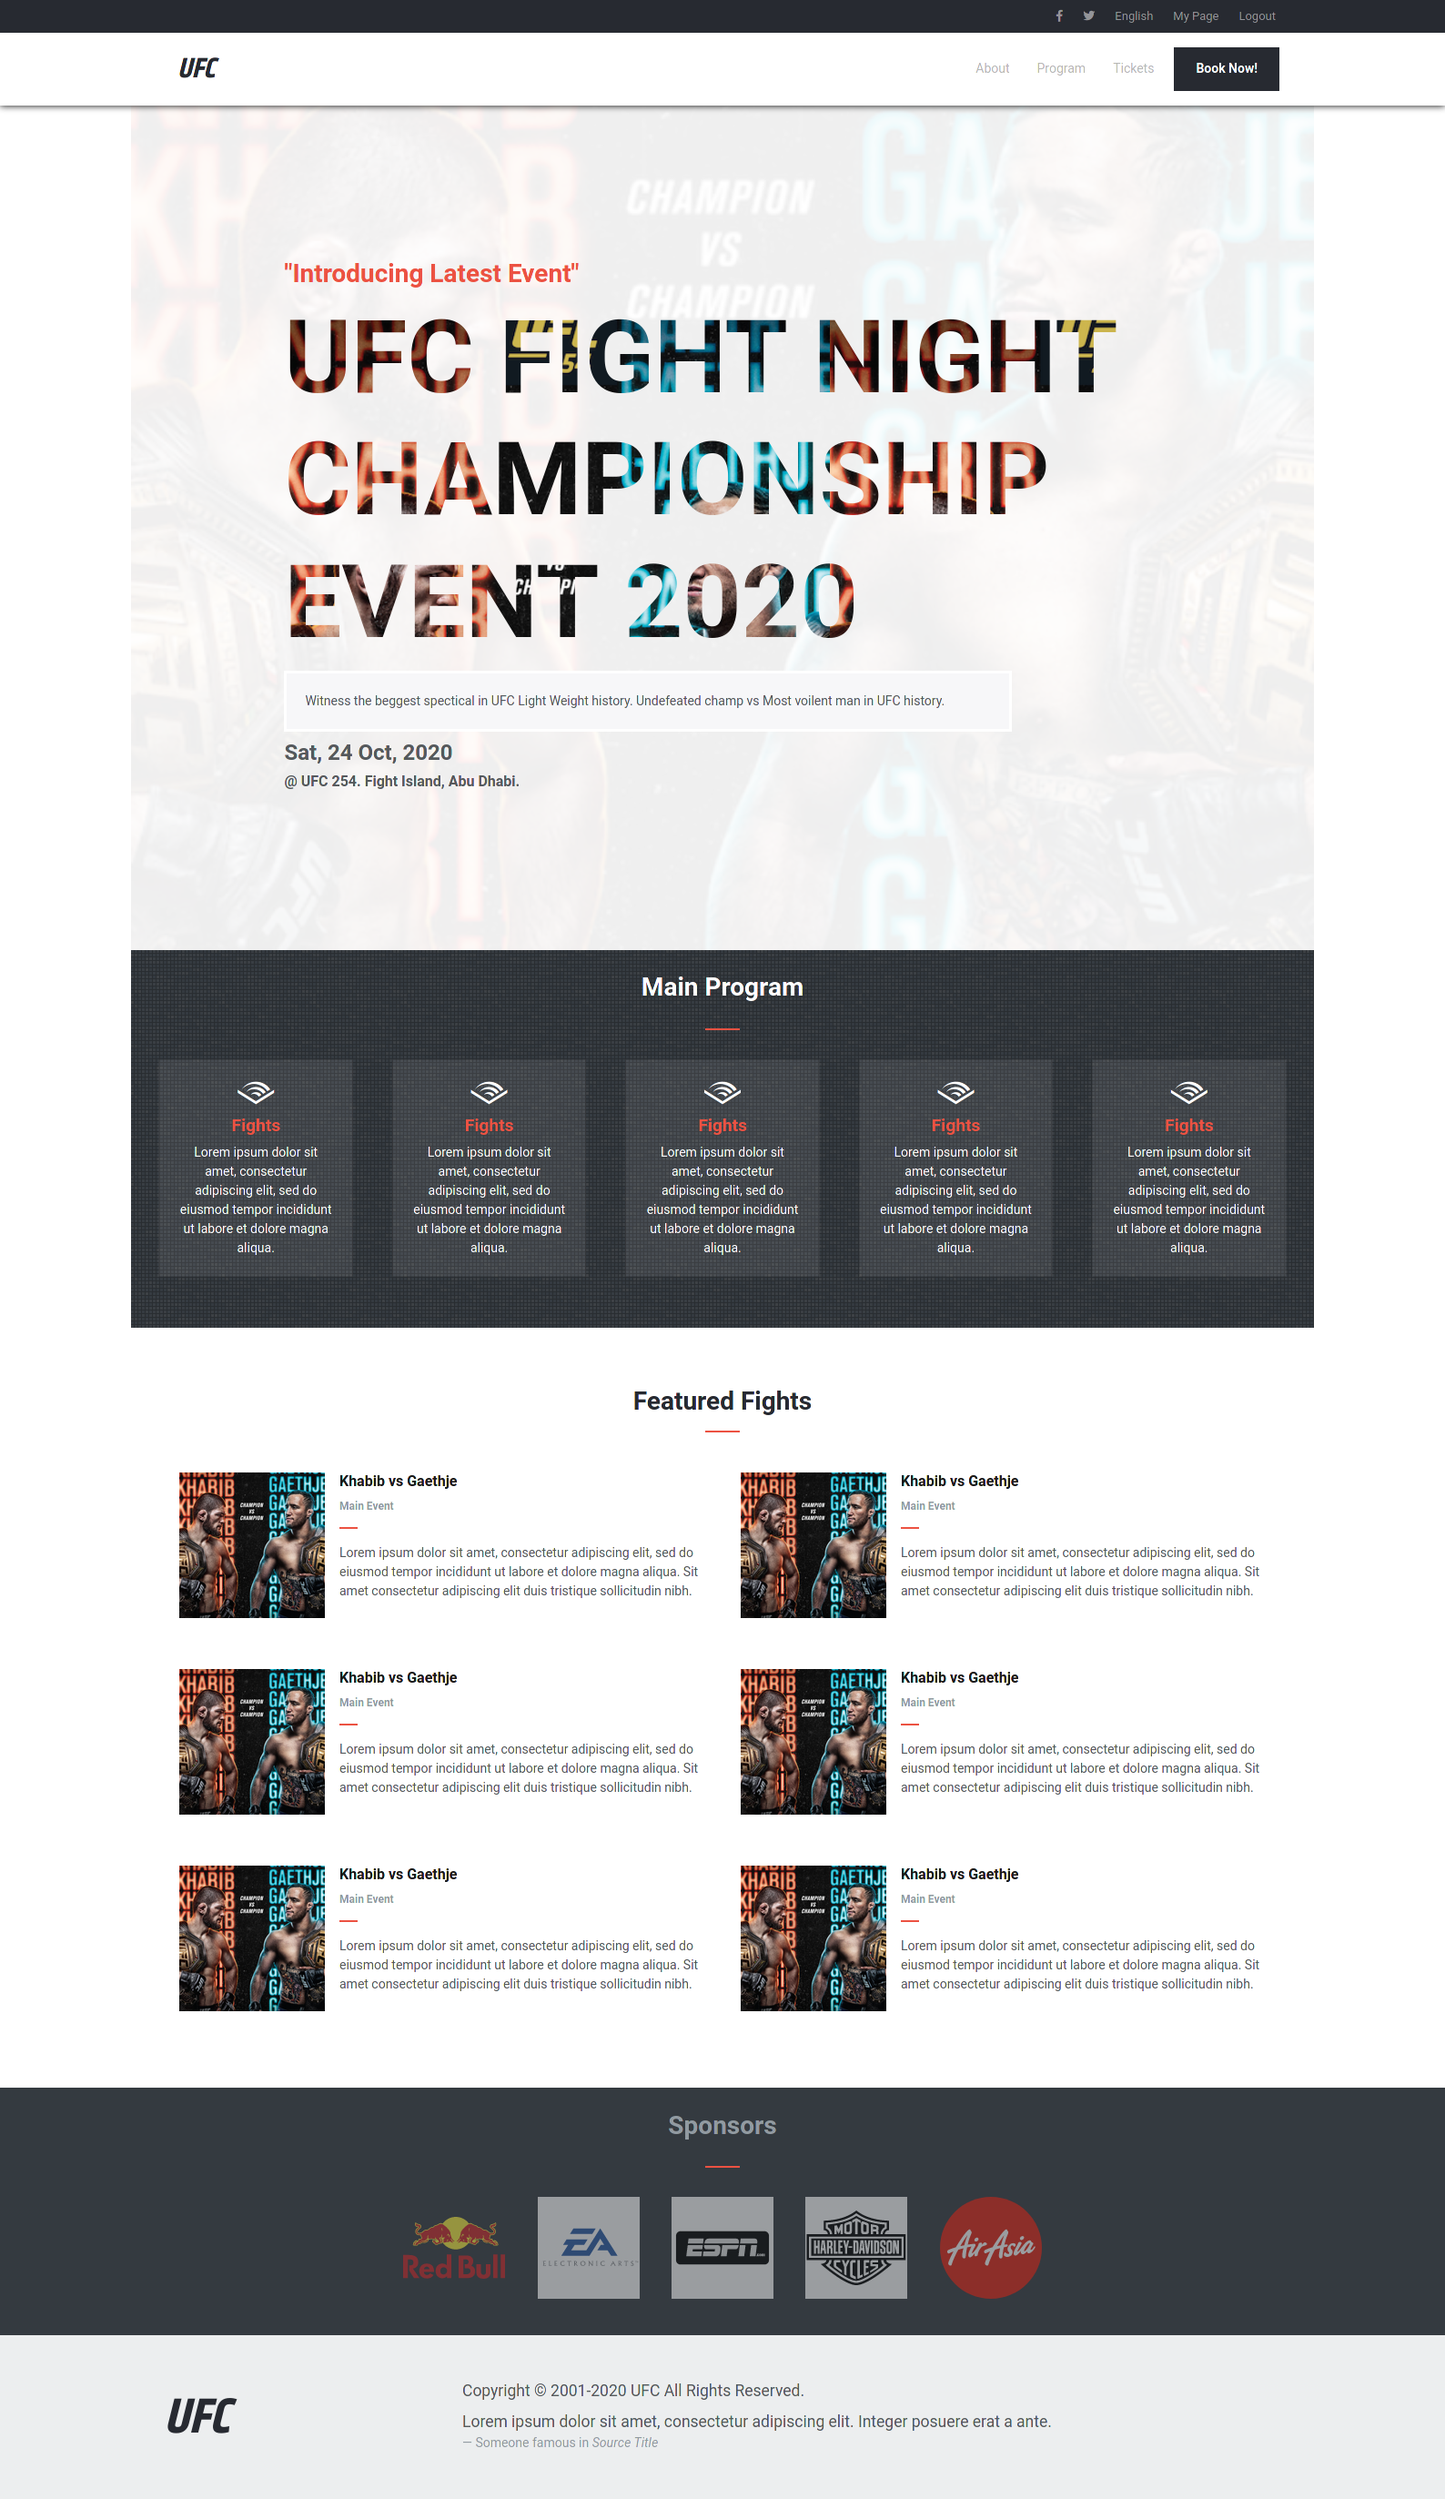
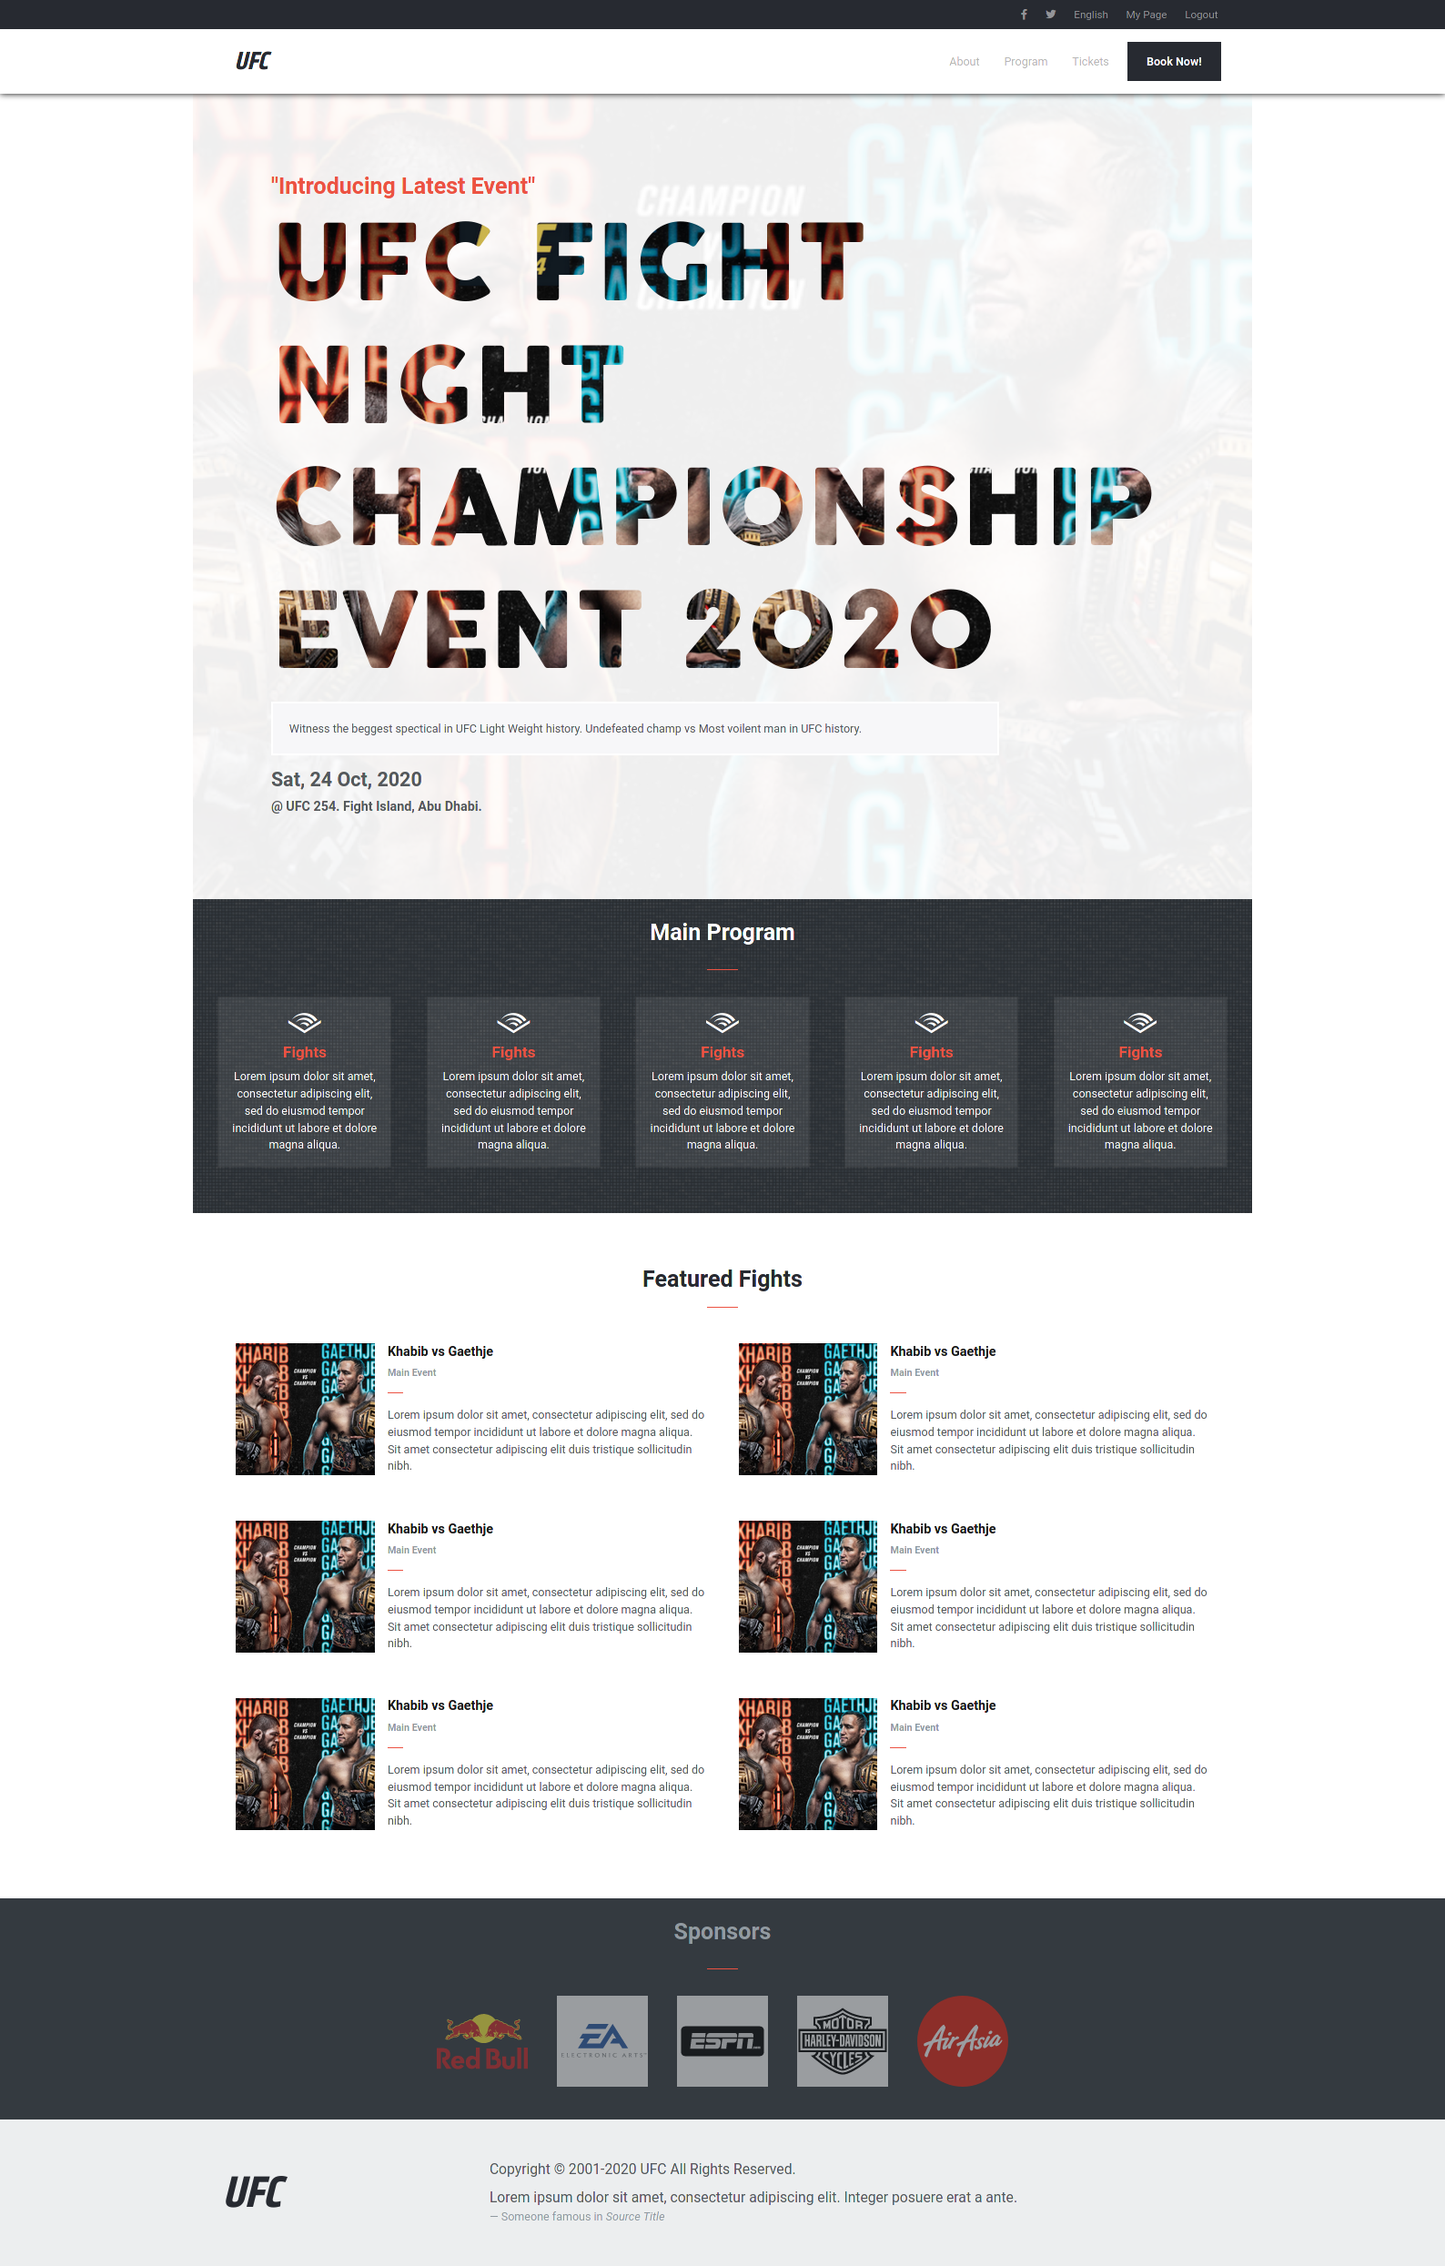
Added Screen shots, Fixed Spacing bugs

diff --git a/index.html b/index.html
@@ -106,7 +106,7 @@
               <div class="row justify-content-sm-around">
 
                 <div class="card text-light rounded-0 mb-3 col-12 col-md-2 p-0">
-                  <div class="card-body p-3">
+                  <div class="card-body p-4 p-md-3">
                     <div class=" container-fluid">
                       <div class="row align-items-center">
                         <i class="fab fa-audible px-md-0 mb-md-2 col-2 col-md-12"></i>

diff --git a/styles/style.css b/styles/style.css
@@ -9829,11 +9829,21 @@ h3 {
   background: #ffffff15;
 }
 #main-program .fab {
-  font-size: 2rem;
+  font-size: 2.5rem;
+}
+@media (max-width: 768px) {
+  #main-program .fab {
+    font-size: 6vw;
+  }
 }
 #main-program ._card-heading {
   font-size: 1.2rem;
   color: #ec5242;
+}
+@media (max-width: 768px) {
+  #main-program ._card-heading {
+    font-size: 4vw;
+  }
 }
 
 #sponsors .img-fluid {

diff --git a/styles/style.scss b/styles/style.scss
@@ -342,12 +342,20 @@ $_orange: #ec5242 !default;
   }
 
   .fab {
-    font-size: 2rem;
+    font-size: 2.5rem;
+
+    @media (max-width: 768px) {
+      font-size: 6vw;
+    }
   }
 
   ._card-heading {
     font-size: 1.2rem;
     color: $_orange;
+
+    @media (max-width: 768px) {
+      font-size: 4vw;
+    }
   }
 }
 
